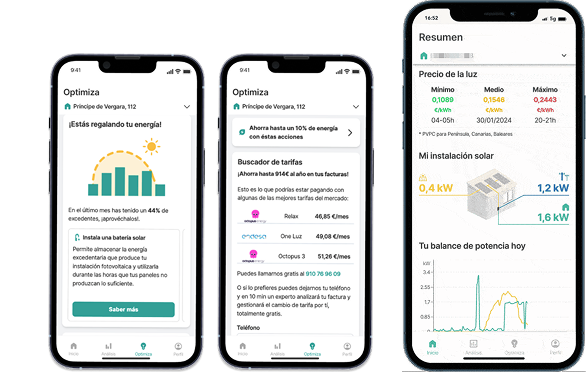
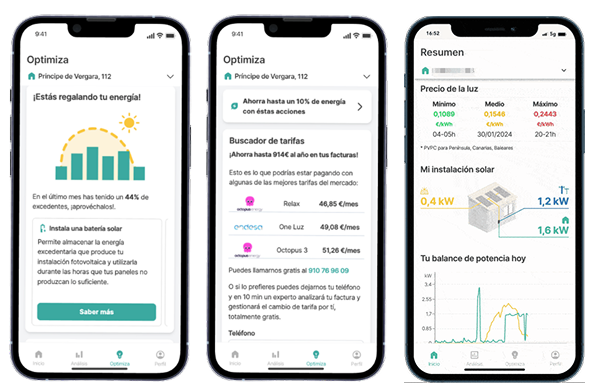
update

diff --git a/src/components/PlanScreen.jsx b/src/components/PlanScreen.jsx
@@ -438,7 +438,24 @@ export default function PlanScreen({
               </div>
             )}
           </div>
+
+          
         </div>
+        {/* Botão Contratar — sempre visível abaixo das tabs */}
+          {modoAlquiler && (
+            <div style={{ display:"flex", justifyContent:"center", padding:"0px 32px 88px" }}>
+              <button
+                disabled={puedeContratar ? yaContratado : yaEnEspera}
+                style={{ background:(puedeContratar ? yaContratado : yaEnEspera) ? "#ccc" : "#FFAD2A", color:"#000", border:"2px solid transparent", borderRadius:28, padding:"13px 48px", fontSize:15, fontWeight:700, fontFamily:"inherit", cursor:(puedeContratar ? yaContratado : yaEnEspera) ? "not-allowed" : "pointer", letterSpacing:"0.04em", opacity:(puedeContratar ? yaContratado : yaEnEspera) ? 0.7 : 1, transition:"background 0.2s,border-color 0.2s" }}
+                onMouseEnter={e => { if(!(puedeContratar ? yaContratado : yaEnEspera)) { e.currentTarget.style.background="#fff"; e.currentTarget.style.borderColor="#000"; } }}
+                onMouseLeave={e => { if(!(puedeContratar ? yaContratado : yaEnEspera)) { e.currentTarget.style.background="#FFAD2A"; e.currentTarget.style.borderColor="transparent"; } }}
+                onClick={puedeContratar ? onContratar : onListaEspera}>
+                {puedeContratar
+                  ? (yaContratado ? "Plan contratado" : "Contratar")
+                  : (yaEnEspera ? "Ya estás en lista de espera" : "Unirse a la lista de espera")}
+              </button>
+            </div>
+          )}
 
         {/* ── MÉTRICAS DE AHORRO (solo venta) ── */}
         {!modoAlquiler && (

diff --git a/src/components/FacturaUpload.css b/src/components/FacturaUpload.css
@@ -149,7 +149,7 @@ body { background: #EEECE8; font-family: 'Montserrat','Helvetica Neue',sans-seri
 .cs-plan-origen { display:flex; gap:0; align-items:stretch; margin-bottom:85px; }
 .cs-plan-connector { display:flex; align-items:center; justify-content:center; padding:0 10px; flex-shrink:0; }
 .cs-plan-tabla { display:grid; grid-template-columns:1fr auto; gap:24px; align-items:start; margin-bottom:55px; padding:24px; }
-.cs-plan-regalo { display:flex; align-items:center; gap:40px; background:#ffffff; border-radius:14px; padding:48px 48px; margin-bottom:50px; overflow:hidden; }
+.cs-plan-regalo { display:flex; align-items:center; gap:40px; background:#ff151500; border-radius:14px; padding:48px 48px; margin-bottom:50px; overflow:hidden; }
 
 @media (max-width:640px) {
   .cs-page { padding:0 12px 60px; }